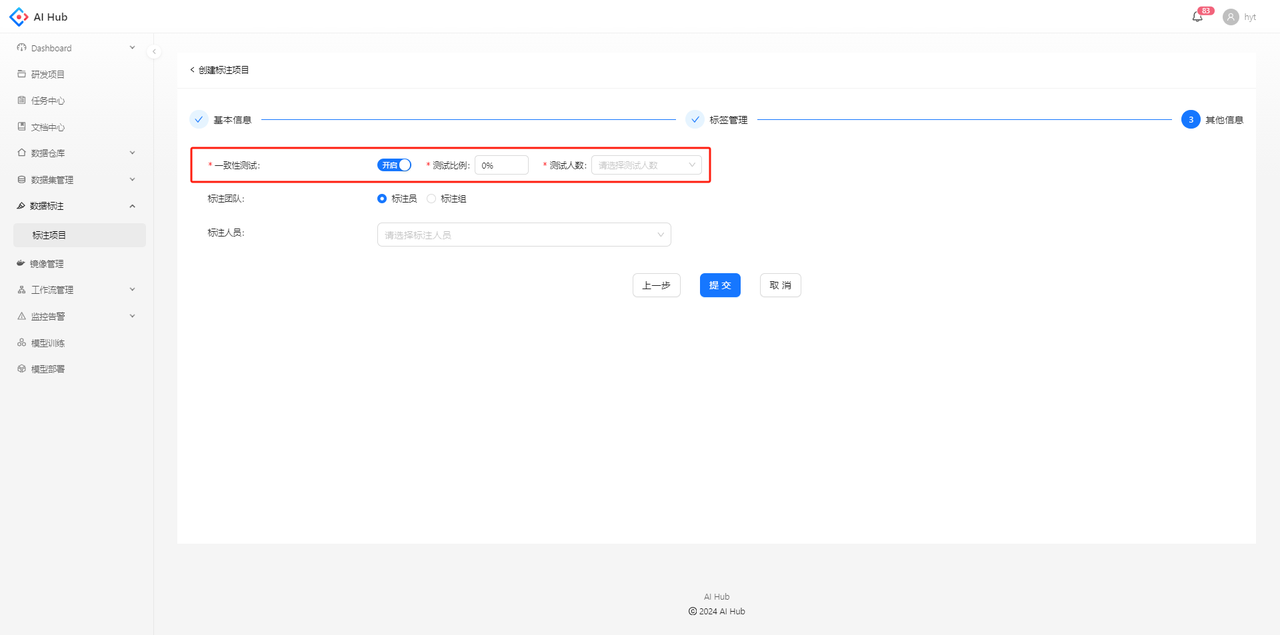
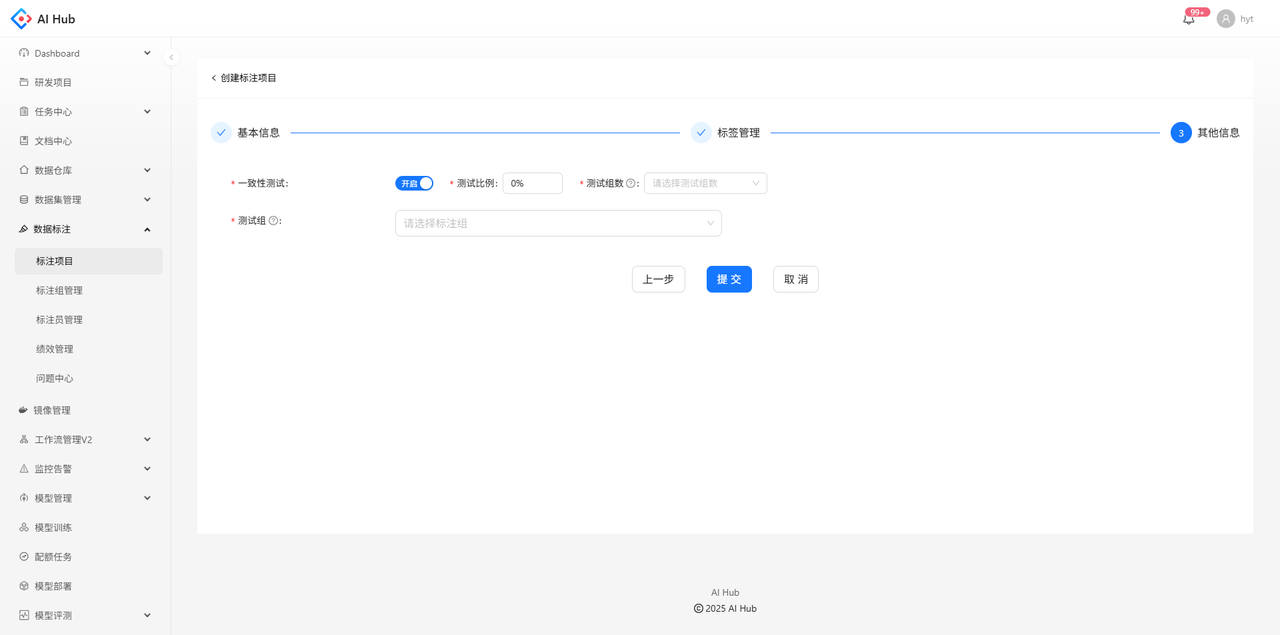
1.0.13

diff --git a/docs/数据标注任务.md b/docs/数据标注任务.md
@@ -1,8 +1,8 @@
 ## 快速开始
 
-[ 算法人员操作指南：标注需求发起到验收](./算法人员操作指南.md)
+[ 算法人员操作指南：标注任务发起到验收](./算法人员操作指南.md)
 
-[ 标注人员操作指南：标注需求接收到完成](./标注人员操作指南.md)
+[ 标注人员操作指南：标注任务接收到交付](./标注人员操作指南.md)
 
 
 
@@ -239,6 +239,26 @@
 
 
 
+### 发起验收/验收任务
+
+在标注过程中，任务接收方可以主动发起验收。选择一个任务绑定的标注项目，点击确定，任务发起方会收到验收的提醒邮件
+
+![](images/数据标注任务/image-37.png)
+
+
+对于任务发起方，可以在不同的标注阶段对标注项目进行验收，验收结果同样会以邮件的形式通知到任务接收方
+
+![](images/数据标注任务/image-35.png)
+
+* 标注项目：单选，可选任一任务绑定的标注项目
+
+* 标注阶段：可选试标阶段（10%）/ 标注完成（100%）
+
+* 验收结果：选择通过/不通过
+
+* 验收反馈：填写验收通过或不通过的原因，例如标注准确率、标注一致率等
+
+
 ### 完成任务
 
 当任务状态为`进行中`时，任务接收方可以在列表页点击`完成`的按钮以告知任务发起方已经完成任务
@@ -248,20 +268,6 @@
 点击确定后，任务状态会变为`已完成`
 
 ![](images/数据标注任务/image-34.png)
-
-
-
-### 验收任务
-
-![](images/数据标注任务/image-35.png)
-
-* 验收结果：选择通过/不通过
-
-* 原因：填写验收通过或不通过的原因，例如标注准确率、标注一致率等
-
-* 实际应用情况：标注数据最终的应用情况，例如该批数据的主要用途、是否投入使用等
-
-* 改进意见：对于标注人力分配审核、验收流程等相关环节的建议
 
 
 

diff --git a/docs/一致性测试.md b/docs/一致性测试.md
@@ -8,9 +8,12 @@
 
 ![](images/一致性测试/image.png)
 
-* 测试比例：从所有图片中抽取出一部分用于进行一致性测试的比例
-
-* 测试人数：用于测试的单张图片所需的标注人数
+1. 测试比例：从所有数据中抽取出一部分用于进行一致性测试的比例
+2. 测试组数：参与测试的单个数据所需的测试组数
+3. 测试组
+    - 可选[标注组](./标注团队管理.md#annotation-group-management)
+    - 参与测试的单个数据会分配给每个测试组中的1人标注
+    - 创建项目后测试组不可更改，但允许在测试组中增加标注员
 
 
 
@@ -22,8 +25,10 @@
 
 ![](images/一致性测试/image-1.png)
 
-例如：已选数据集中有100张图片，一致性测试比例为30%，测试人数为2
-
+例如：已选数据集中有100张图片，一致性测试比例为30%，测试组数为2。则任务数量<br>
+        = 一致性测试的任务数量 + 非一致性测试的任务数量<br>
+        = 100 × 30% × 2 + 100 × (1-30%)<br>
+        = 130
 
 
 在项目总览，标注情况中的指标也是以任务为单位进行统计的。

diff --git a/docs/算法人员操作指南.md b/docs/算法人员操作指南.md
@@ -1,3 +1,5 @@
+本文面向算法角色，提供从标注任务发起到最终验收的全流程操作指南，涵盖发起任务前的数据及文档准备、任务进行中的标注情况跟进、任务完成后的数据下载等关键环节。
+
 ## 1. 数据集准备
 
 将本地或服务器路径上的数据集上传至平台，更多详细操作请参考[ 数据集管理](./数据集管理.md)
@@ -44,19 +46,7 @@
 
 
 
-## 5. 验收标注任务
-
-标注完成后，在任务详情页点击验收按钮
-
-![](images/算法人员操作指南/image-3.png)
-
-填写本次任务的验收结果及数据应用情况
-
-![](images/算法人员操作指南/image-4.png)
-
-
-
-## 6. 下载已标数据
+## 5. 下载已标数据
 
 数据验收无误后，点击标注项目的导出图标
 
@@ -82,7 +72,7 @@
 
 
 
-## 7. 关闭标注任务
+## 6. 关闭标注任务
 
 标注数据验收无误后，点击确认按钮
 

diff --git a/docs/标注人员操作指南.md b/docs/标注人员操作指南.md
@@ -1,3 +1,5 @@
+本文面向标注管理员角色，提供从标注任务接收到最终交付的全流程操作指南，涵盖预估标注工时、创建标注项目到最后的数据导出等关键环节。
+
 ## 1. 接收标注需求
 
 在查看标注任务的详情后，点击接受按钮

diff --git a/docs/标注团队管理.md b/docs/标注团队管理.md
@@ -6,7 +6,7 @@
 
 
 
-## 标注组管理
+## 标注组管理 {#annotation-group-management}
 
 支持对标注组进行增删改查
 
